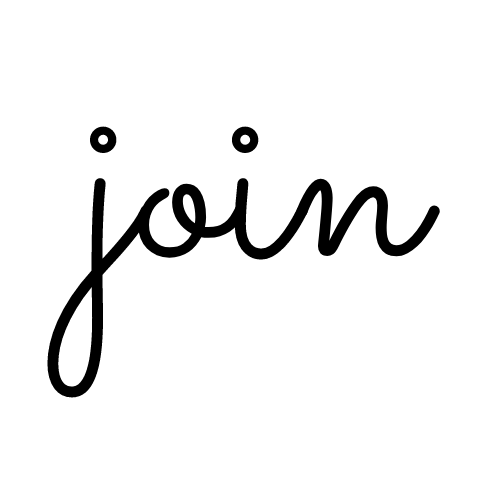
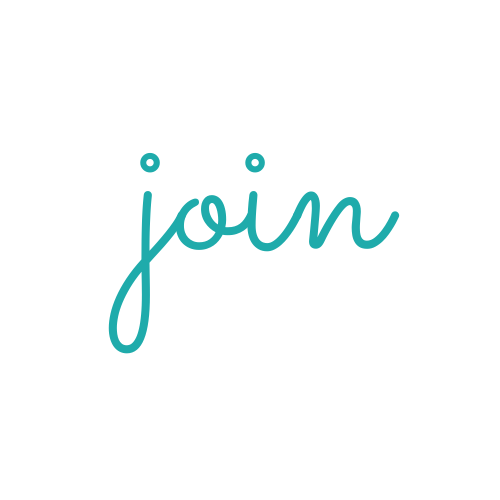
trabsition

Changed region(s): [[0.09, 0.24, 0.9, 0.81], [0.18, 0.24, 0.24, 0.33]]

diff --git a/src/components/myscreens/eventChat/ChatRoom.js b/src/components/myscreens/eventChat/ChatRoom.js
@@ -1075,11 +1075,17 @@ export default class ChatRoom extends Component {
             flexDirection: 'row', ... (!this.state.showVideo && !this.state.showPhoto && !this.state.showRepliedMessage && !this.state.showCaption)
         }
         return (
-            <View style={{ height: "100%", }}>
+
+            <View style={{ height:colorList.containerHeight }}>
+ 
                     {
                         // **********************Header************************ //
                         this.state.showHeader ? this.header() : null
                     }
+      
+         <KeyboardAvoidingView behavior={Platform.Os == "ios" ? "padding" : "height"}
+          style={{flex:1,backgroundColor:"red",flexDirection: 'column',marginBottom:"2%",
+          justifyContent: 'center'}} >               
             <View style={{ height: "90%", }}>
                 <StatusBar animated={true} hidden={this.state.hideStatusBar} barStyle="dark-content" backgroundColor="#FEFFDE"></StatusBar>
                 {!this.state.loaded ? <Waiter></Waiter> : <View style={{}}><View style={{ width: "100%", alignSelf: 'center', }}>
@@ -1100,7 +1106,9 @@ export default class ChatRoom extends Component {
                         <View>
                             {!this.props.opened || !this.props.generallyMember ? <Text style={{ fontStyle: 'italic', marginLeft: "3%", }} note>{"This commitee has been closed for you"}</Text> :
                                 // ***************** KeyBoard Displayer *****************************
-                                this.keyboardView()
+
+                                 this.keyboardView()
+                            
                             }
                         </View>
                     </ScrollView>
@@ -1188,11 +1196,15 @@ export default class ChatRoom extends Component {
                 }}></ContactsModal> : null}
                 {//</ImageBackground>
                 }
-            </View>
-            </View>
-
+                  
+               </View>
+             </KeyboardAvoidingView> 
+           
+        </View>
+        
         )
     }
+
     groupByWeek(media) {
         let groupedDates = groupBy(media, ele => moment(ele.created_at).startOf('week'))
         let keys = Object.keys(groupedDates)
@@ -1304,11 +1316,11 @@ export default class ChatRoom extends Component {
         this.markAsRead();
     }
     keyboardView() {
-        return <View style={{
-            backgroundColor: colorList.bodyBackground,
-            alignSelf: 'center', alignItems: 'center', borderBottomWidth: 0, borderTopWidth: .3,
-            borderColor: 'gray', borderRadius: 4,
-            padding: '1%', width: "99%", alignItems: 'center',
+        return (
+       <View style={{
+            backgroundColor: colorList.bodyBackground,position:"absolute",bottom:0,
+            alignItems: 'center', borderTopWidth: .3,
+            borderColor: 'gray', padding: '1%', width: "99%"
         }}>
             {
                 //* Reply Message caption */
@@ -1377,7 +1389,9 @@ export default class ChatRoom extends Component {
             {
                 // ***************** Emoji keyBoard Input ***********************//
                 this.state.showEmojiInput ? this.imojiInput() : null}
-        </View>;
+        </View>
+        )
+        
     }
 
     replyMessageCaption() {

diff --git a/src/components/myscreens/eventDetails/index.js b/src/components/myscreens/eventDetails/index.js
@@ -306,20 +306,24 @@ export default class EventDetailView extends Component {
                 >
                 </BleashupFlatList> : null}
               </View>
+
+
               <View style={{ height: !(this.state.highlightData &&
                   this.state.highlightData.length) > 0 ? "100%" : '69%', borderTopLeftRadius: 5, borderTopRightRadius: 5, ...shadower(2), backgroundColor:colorList.bodyBackground,
               }}>
                 <View style={{
-                  height: "69%", width: "96%",
-                  borderRadius: 8,
-                  margin: "0.5%", ...shadower(1),alignSelf:"center"
+                  height: "69%", width: colorList.containerWidth,
+                  borderRadius: 1,
+                  ...shadower(1),alignSelf:"center"
                 }}>
+
                   {this.props.computedMaster ? <Icon name={"pencil"} type={"EvilIcons"} onPress={() => {
                     this.setState({
                       EventDescriptionState: true
                     })
-                  }} style={{ alignSelf: 'flex-end', }}></Icon> : null}
-                  <ScrollView style={{ width: '100%', }} showsVerticalScrollIndicator={false}>
+                  }} style={{ alignSelf: 'flex-end',marginRight:"6%" }}></Icon> : null}
+
+                  <ScrollView style={{ width:"99%", }} showsVerticalScrollIndicator={false}>
                     <View>
                       {this.props.Event.about.description != "" ?
                         <Hyperlink onPress={(url) => { Linking.openURL(url) }} linkStyle={{ color: '#48d1cc', fontSize: 16 }}>
@@ -332,6 +336,7 @@ export default class EventDetailView extends Component {
                           delayLongPress={800}>{this.state.defaultDetail}</Text>}
                     </View>
                   </ScrollView>
+
                 </View>
                 <View style={{ flexDirection: 'row', }}>
                   <View style={{ flexDirection: "column", justifyContent: "space-between",
@@ -416,6 +421,7 @@ export default class EventDetailView extends Component {
               }}
               update={(newHighlight, previousHighlight) => this.updateHighlight(newHighlight, previousHighlight)}
               participant={this.state.participant} parentComponent={this} ref={"highlights"} event_id={this.props.Event.id} />
+              
 
             {this.state.isAreYouSureModalOpened ? <BleashupAlert title={"Delete Higlight"} accept={"Yes"} refuse={"No"} message={" Are you sure you want to delete these highlight ?"}
               deleteFunction={() => this.deleteHighlight(this.state.current_highlight)}

diff --git a/src/components/myscreens/event/createEvent/CreateEvent.js b/src/components/myscreens/event/createEvent/CreateEvent.js
@@ -101,9 +101,9 @@ export default class CreateEvent extends Component {
     return (
 
  
-        <ActionButton buttonColor="#1CDBAB" position="right" backgroundTappable={true} btnOutRange="green" size={57}>
+        <ActionButton buttonColor="#1FABAB" position="right" backgroundTappable={true} btnOutRange="green" size={57} useNativeFeedback={false}>
 
-          <ActionButton.Item buttonColor='#1FABAB' title="New Relation" onPress={()=>{this.onClickNewContact()}} size={75}>
+          <ActionButton.Item buttonColor='#1CDBAB' title="New Relation" onPress={()=>{this.onClickNewContact()}} size={75}>
             <Icon name="person-add" active={true} type="MaterialIcons" style={styles.actionButtonIcon} />
           </ActionButton.Item>   
           <ActionButton.Item buttonColor='#9b59b6' title=" New Activity  " onPress={()=>{this.onClickNewEvent().then(()=>{})}} size={65}>

diff --git a/src/components/myscreens/currentevents/components/Join.js b/src/components/myscreens/currentevents/components/Join.js
@@ -68,8 +68,8 @@ export default class Join extends Component {
                 <View style={{ alignItem:"flex-start" ,alignItem:"center",justifyContent:"center"}}>
                     <TouchableWithoutFeedback onPress={() => this.join()} >
                         <View >
-                         { this.state.participant ?<Thumbnail source={require("../../../../../assets/join1.png")} style={{height:height/15,width:70}}></Thumbnail>
-                         :null}   
+                         {!this.state.participant ?<Thumbnail source={require("../../../../../assets/join1.png")} style={{height:height/15,width:70}}></Thumbnail>
+                         :<Thumbnail source={require("../../../../../assets/join3.png")} style={{height:height/15,width:70}}></Thumbnail>}   
                         </View>
                     </TouchableWithoutFeedback>
 

diff --git a/src/native-base-theme/variables/commonColor.js b/src/native-base-theme/variables/commonColor.js
@@ -187,7 +187,7 @@ export default {
     inputBorderColor: "#D9D5DC",
     inputSuccessBorderColor: "#2b8339",
     inputErrorBorderColor: "#ed2f2f",
-    inputHeightBase: 50,
+    inputHeightBase: 40,
     get inputColor() {
         return this.textColor;
     },
